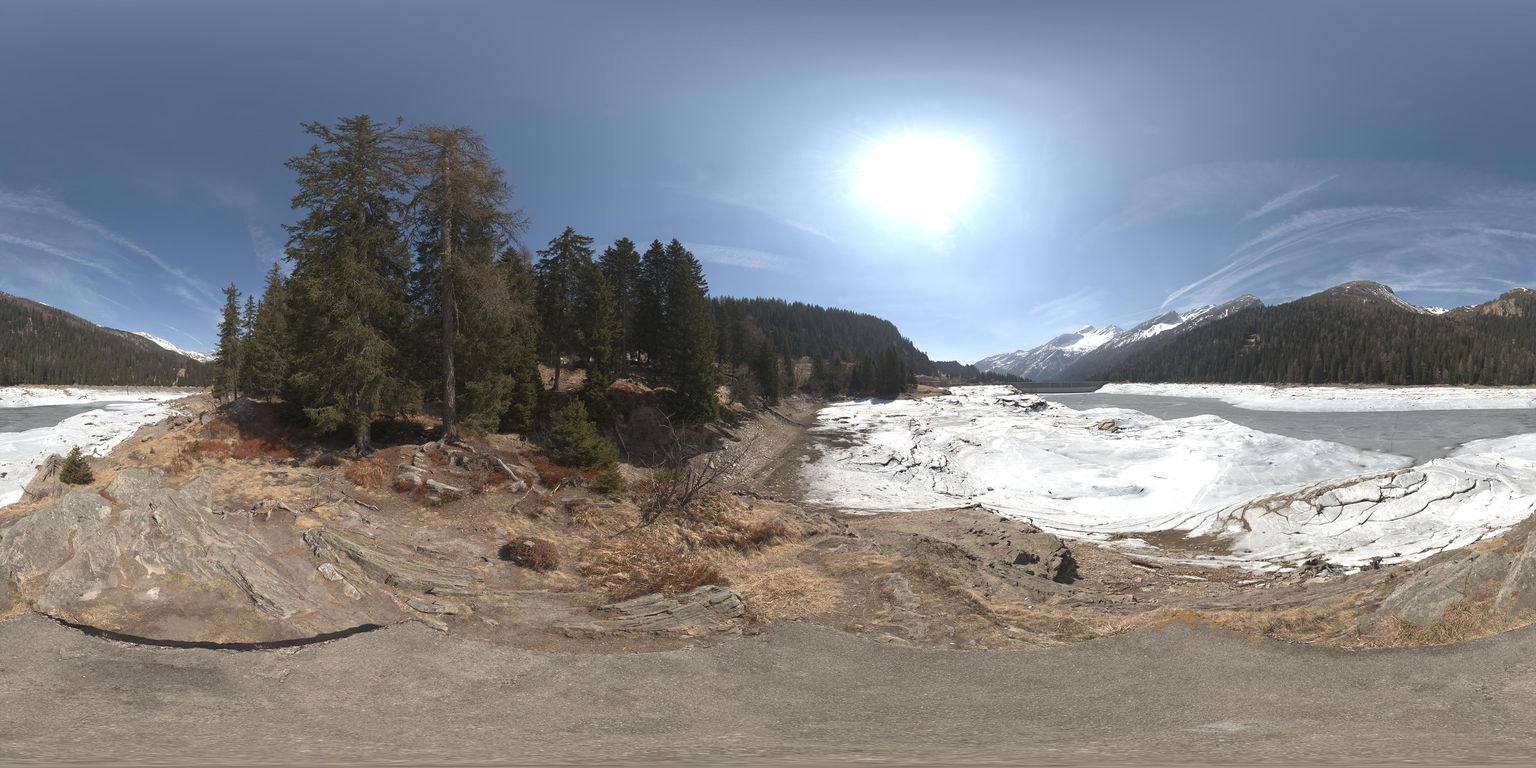
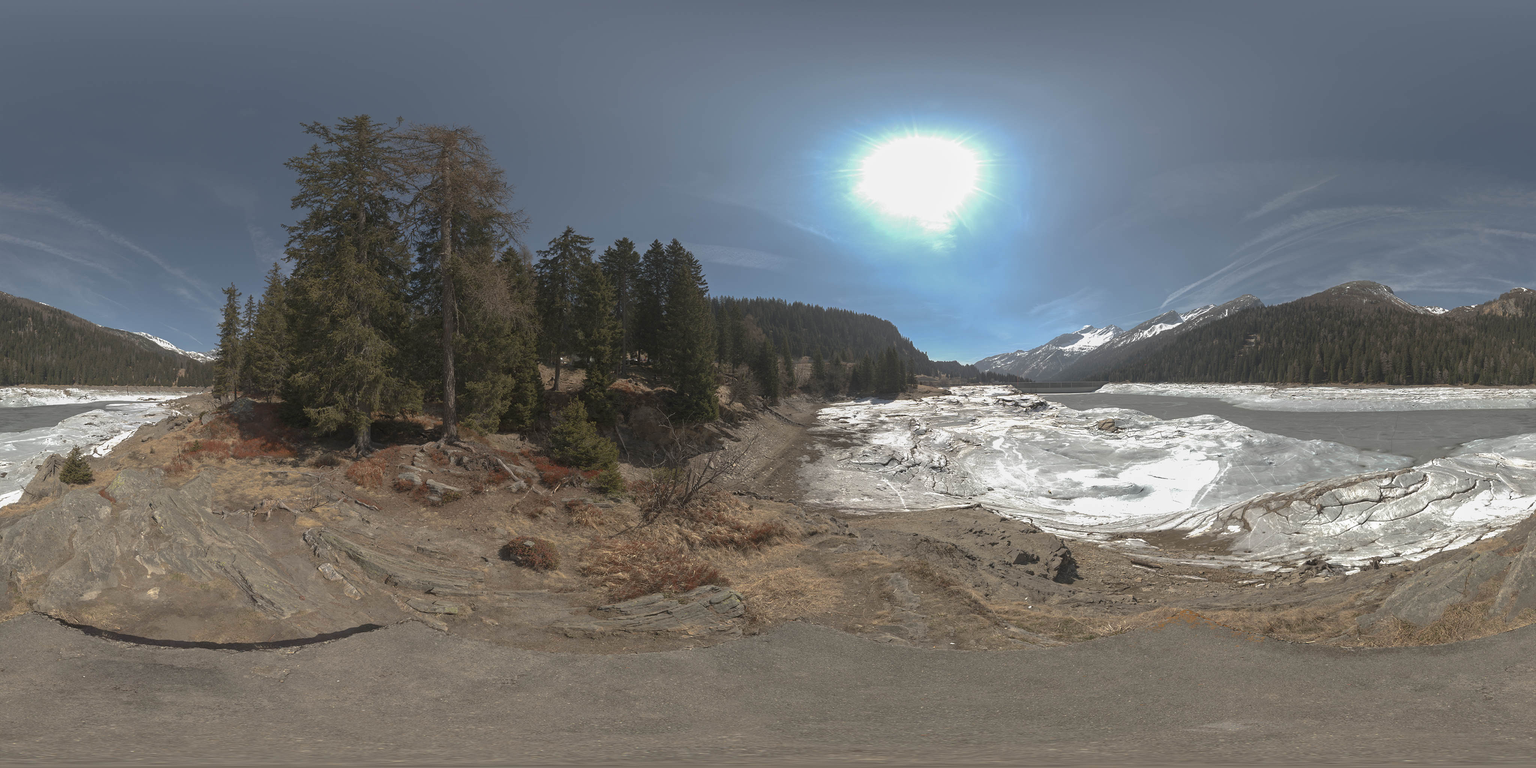
added more hdri backgrounds

diff --git a/kingsley.html b/kingsley.html
@@ -47,10 +47,10 @@
 <body class="kingsleybackground noselect" style="height: 100%;
     overflow: hidden;">
       
-
-    <model-viewer loading="eager" id="color" id="hotspot-camera-view-demo" bounds="tight" enable-pan poster="kingsley/img/loader.gif" src="https://archiebattley.com/kingsley/models/KingsleyVersion2.4.glb" skybox-image="https://archiebattley.com/kingsley/img/hdri/eveningfield.jpg" skybox-height="10m" camera-controls touch-action="none" interpolation-decay="130" shadow-intensity="3" exposure="2" shadow-softness="1" tone-mapping="commerce" camera-orbit="-40deg 85deg 20m" min-camera-orbit="auto auto 3m" max-camera-orbit="auto 90deg auto">
-
       
+      <model-viewer loading="eager" id="color" id="hotspot-camera-view-demo" bounds="tight" enable-pan poster="kingsley/img/loader.gif" src="https://archiebattley.com/kingsley/models/KingsleyVersion2.4.glb" skybox-height="10m" turntable-rotation="0deg 0deg 180" camera-controls touch-action="none" interpolation-decay="130" shadow-intensity="2.8" exposure="1" shadow-softness="0.7" tone-mapping="commerce" camera-orbit="-40deg 85deg 20m" min-camera-orbit="auto auto 3m" max-camera-orbit="auto 90deg auto">
+
+        
       <div class="text-center" slot="hotspot-wheel" data-position="-1.657174348831175m 0.704767189287746m -2.063101221949054m" data-normal="-1m 0m 0m" data-visibility-attribute="visible">
         <button class="btn btn-icons fas fa-paint-roller" data-toggle="collapse" href="#WheelPaint" role="button" aria-expanded="false" aria-controls="WheelPaint">
         </button>
@@ -86,7 +86,7 @@
       <effect-composer render-mode="quality" id="customComposer">
         <ssao-effect blend-mode="DEFAULT" opacity="0.5" strength="10"></ssao-effect>
  <bloom-effect strength="0.5" radius="0.1" threshold="0.8"></bloom-effect>
- <color-grade-effect blend-mode="add" opacity="0.2" tonemapping="optimized_cineon" brightness="0.1" contrast="0.4" saturation="-0.1" hue="6"></color-grade-effect>
+ <color-grade-effect blend-mode="add" opacity="0.2" tonemapping="optimized_cineon" brightness="0" contrast="0.4" saturation="-0.1" hue="6"></color-grade-effect>
 
 </effect-composer>
     </model-viewer>  
@@ -113,7 +113,6 @@
   <nav class="navbar navbar-expand-lg fixed-bottom">
     <div class="container pb-3">
       
-
       <a class="navbar-toggler" type="" data-toggle="collapse" data-target="#navbarResponsive" aria-controls="navbarResponsive" aria-expanded="false" aria-label="Toggle navigation">
         <i class="fa fa-angle-up"></i>
       </a>
@@ -123,12 +122,12 @@
           <p class="text-small text-shadowed">(Range Rover Classic 2 Door)</p>
         </div>
 
-
         <ul class="navbar-nav ml-auto">
 
-          <li class="nav-item annotation">
+          <li class="nav-item annotation shadow-lg">
            <p class="font-weight-bold text-dark text-center p-2 m-0" inert>Body Colour</p>
             <div class="p-0 controls" id="color-controls">
+
               <div class="row text-center m-0">
                 <div class="col p-xl-1 p-lg-1 p-md-1 p-sm-1 p-0">
                   <button data-color="#005b6d" class="btn btn-squared tuscanblue">Tuscan Blue</button>
@@ -154,24 +153,15 @@
                 <div class="col p-xl-1 p-lg-1 p-md-1 p-sm-1 p-0">
                   <button data-color="#a1987e" class="btn btn-squared saharadust">Sahara Dust</button>
                 </div>
-
               </div>
-        
-              
-             <!-- Responsive Button Classes "col-xl col-lg col-md col-sm-3 col-3 p-xl-1 p-lg-1 p-md-3 p-sm-3 p-3" -->
-              
-              
-              
-              
+    
             </div>
-
-        </li>
+          </li>
           
-        
         </ul>
       
-      
       </div>
+
     </div>
   </nav>
   
@@ -262,7 +252,6 @@
   <script src="https://code.jquery.com/jquery-3.3.1.slim.min.js" integrity="sha384-q8i/X+965DzO0rT7abK41JStQIAqVgRVzpbzo5smXKp4YfRvH+8abtTE1Pi6jizo" crossorigin="anonymous"></script>
   <script src="https://cdn.jsdelivr.net/npm/popper.js@1.14.3/dist/umd/popper.min.js" integrity="sha384-ZMP7rVo3mIykV+2+9J3UJ46jBk0WLaUAdn689aCwoqbBJiSnjAK/l8WvCWPIPm49" crossorigin="anonymous"></script>
   <script src="https://cdn.jsdelivr.net/npm/bootstrap@4.1.3/dist/js/bootstrap.min.js" integrity="sha384-ChfqqxuZUCnJSK3+MXmPNIyE6ZbWh2IMqE241rYiqJxyMiZ6OW/JmZQ5stwEULTy" crossorigin="anonymous"></script>
-
 
 </body>
 

diff --git a/kingsley/js/configuratorscript.js b/kingsley/js/configuratorscript.js
@@ -37,6 +37,32 @@ document.addEventListener('gestureend', function(e) {
 
 // CONFIGURATOR 
 
+// Get the model viewer element
+const modelViewer = document.querySelector('model-viewer');
+
+// Skybox Functionality
+
+ // Array of skybox image URLs
+ const skyboxImages = [
+  "https://archiebattley.com/kingsley/img/hdri/eveningfield.jpg",
+  "https://archiebattley.com/kingsley/img/hdri/mountainlake.jpg",
+  "https://archiebattley.com/kingsley/img/hdri/university.jpg",
+  "https://archiebattley.com/kingsley/img/hdri/dirtroad.jpg",
+  "https://archiebattley.com/kingsley/img/hdri/eveningroad.jpg",
+  // Add more skybox image URLs here...
+];
+
+// Function to choose a random skybox image URL
+function getRandomSkyboxImage() {
+  return skyboxImages[Math.floor(Math.random() * skyboxImages.length)];
+}
+
+// Set a random skybox image on page load
+modelViewer.skyboxImage = getRandomSkyboxImage();
+
+// Skybox Functionality End
+
+
 // Enables Color Picker Functionality
 const modelViewerColor = document.querySelector("model-viewer#color");
 
